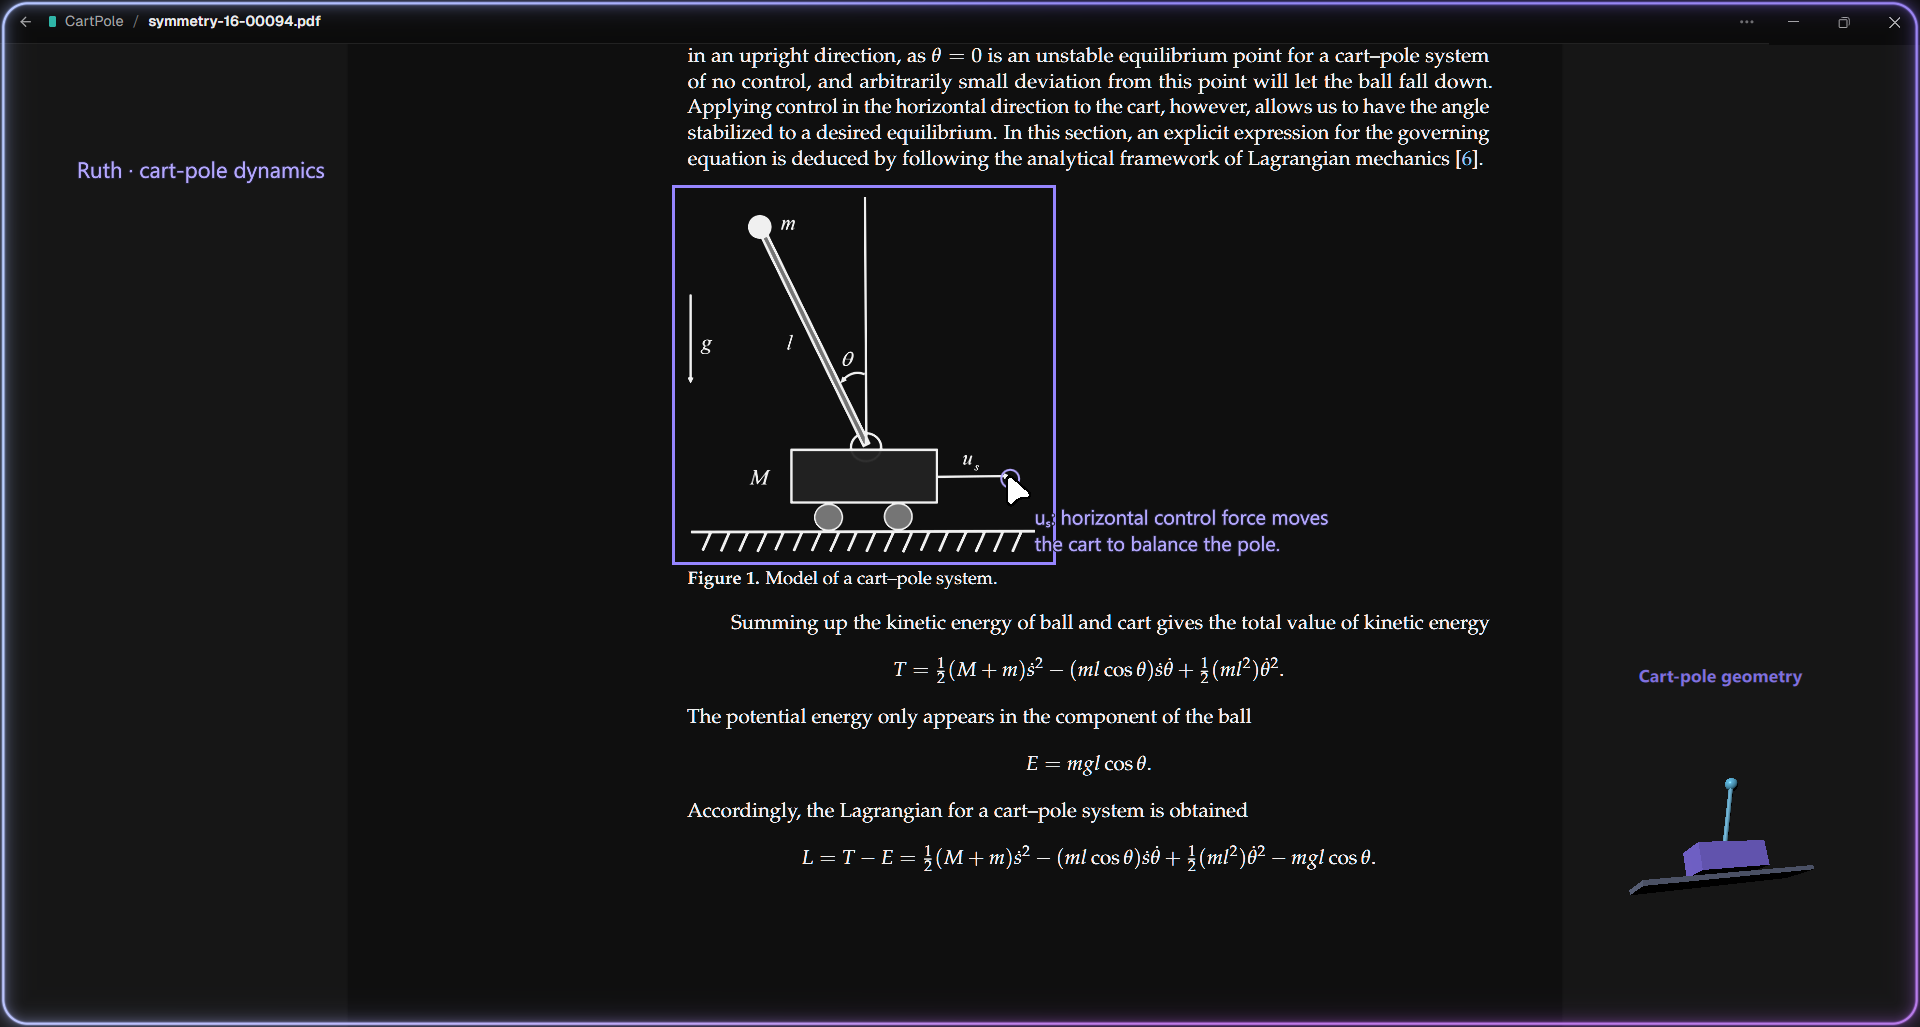
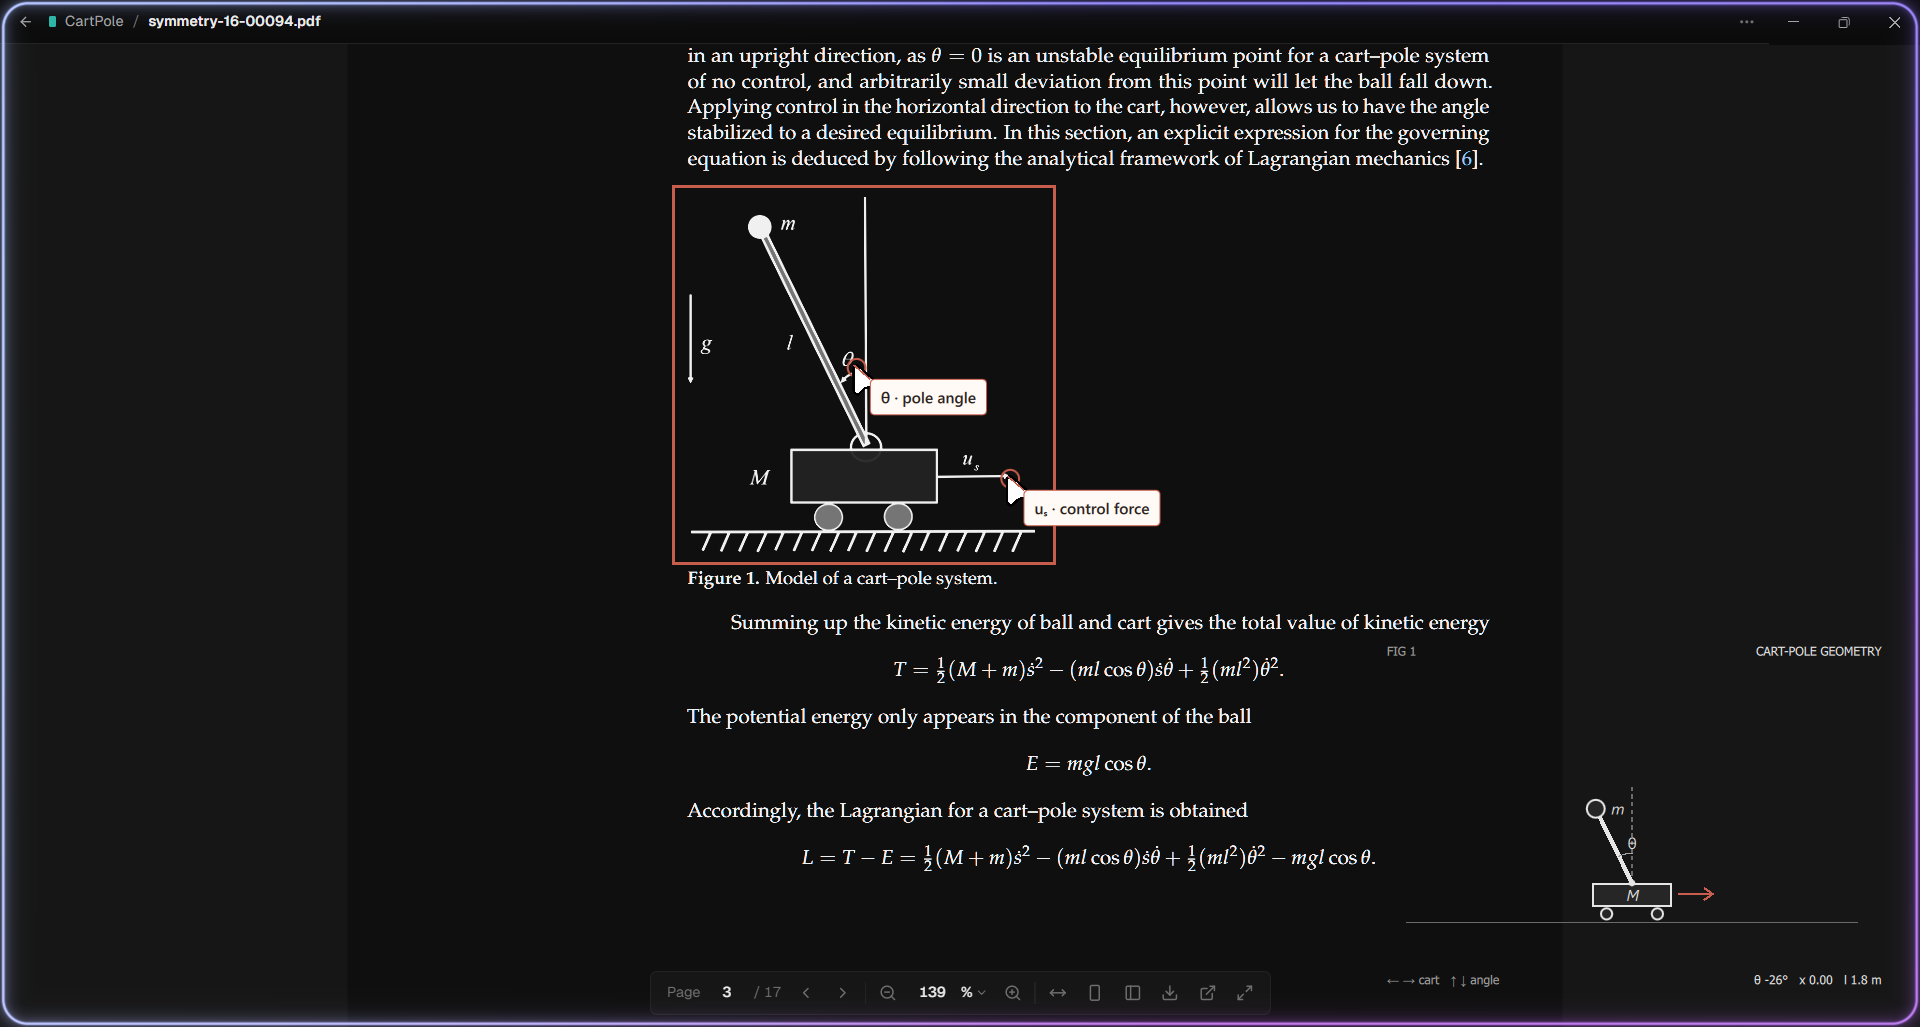
docs(desktop): show bubble annotations and a 2D figure over Avenire

diff --git a/apps/desktop-native/README.md b/apps/desktop-native/README.md
@@ -47,6 +47,20 @@ exploration and unsigned testing do not establish release licensing.
 No comparative RAM, latency or physical GPU claim has been measured. `inspect`
 reports the rendering API, which can also be backed by software drivers.
 
+`native_diagram` supplies a transparent 2D cart-pole figure as bounded data. The
+renderer follows the anatomy figure guidelines: direct side view, quiet technical
+labels, one geometric state shared by drawing/readouts, and no card. Dragging and
+arrow keys adjust angle/cart position when interactive. This is geometric
+manipulation, not a simulated controller. The existing 3D renderer stays optional.
+
+`get_cursor` reads the OS pointer without moving it: global Qt logical pixels,
+normalized coordinates within the selected capture bounds, screen ID and an
+observation timestamp. The prompt refreshes pointer and current native presentation
+state before each submission. Ruth can inspect these through `native_cursor` and
+`native_presentation`, and request parameter changes through `native_diagram` or
+`native_visualize`. These observations are per-turn snapshots, not continuous
+same-turn desktop feedback. Trusted prompt/session checks protect the read IPC too.
+
 ## Process contract
 
 The private transport is newline-delimited JSON on inherited stdin/stdout. There
@@ -72,8 +86,10 @@ interactive scene emits `{event:"dismiss"}` and hides both native surfaces.
 Frames are capped at 1 MiB, queued work at 32 requests, annotations at 128 and
 plain-text labels at 512 characters. Coordinates are normalized to the selected
 screen and validated along with extents. Cursor annotations draw the Bibata Modern Ice pointer, a target
-ring and clamped explanatory label; they do not move the OS pointer. Rectangles,
-arrows and labels also remain available. Screen-pinned annotations do not track
+ring and clamped opaque text bubble; they do not move the OS pointer. Rectangles,
+arrows and labels also remain available. Every annotation with text uses the same
+cream bubble, dark ink and muted coral leader; it repositions at display edges.
+There is no bare floating annotation text. Screen-pinned annotations do not track
 moving or scrolling document content.
 
 Scenes accept 1..32 bounded colored primitives and transforms, with native mouse
